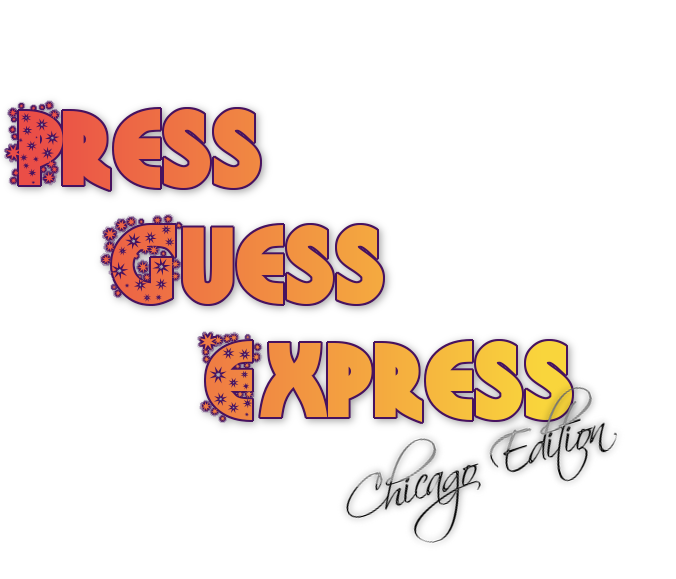
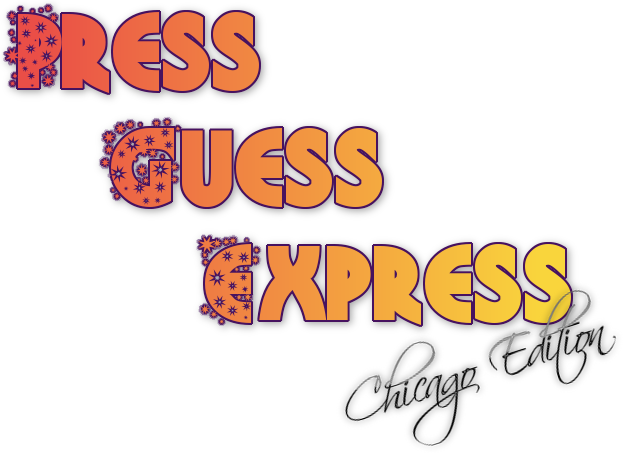
laying down the basic page. background and initial divs are almost complete

diff --git a/index.html b/index.html
@@ -1,18 +1,70 @@
 <!DOCTYPE html>
 <html lang="en">
+
 <head>
     <meta charset="UTF-8">
     <meta name="viewport" content="width=device-width, initial-scale=1.0">
     <meta http-equiv="X-UA-Compatible" content="ie=edge">
     <link rel="stylesheet" href="./assets/css/reset.css">
+    <link rel="stylesheet" href="https://maxcdn.bootstrapcdn.com/bootstrap/4.0.0/css/bootstrap.min.css">
     <link rel="stylesheet" href="./assets/css/style.css">
-    <title>Document</title>
-</head>
-<body>
-<img src="./assets/images/Press Guess Express.png" alt="1">
-<img src="./assets/images/city background.jpg" alt="2">
-<img src=".//assets/images/pink geo.jpg" alt="3">
 
-    <script src="./assets/javascript/game.js"></script>
+
+    <title>Chicago</title>
+</head>
+
+<body>
+
+    <div class="container">
+        <div class="row">
+
+            <div class="col-md-12">
+                <img id=background src="./assets/images/Press Guess Express.png" alt="1">
+            </div>
+        </div>
+        <div class="row">
+            <div class="col-md-6">
+                <div> </div>
+            </div>
+            <div class="col-md-6">
+                <h2>Press anything to start game!</h2>
+            </div>
+        </div>
+        <div class="row">
+            <div class="col-md-7">
+                <div></div>
+            </div>
+            <div class="col-md-5">
+                <h3>Current word</h3>
+            </div>
+        </div>
+        <div class="row">
+            <div class="col-md-8"></div>
+            <div class="col-md-4">
+                <div id=guesses></div>
+            </div>
+        </div>
+
+    </div>
+    <script type="text/javascript">
+
+        var wordOptions = [
+            "Streeterville",
+            "Wrigleyville",
+            "Andersonville",
+            "Edgewater",
+            "Chinatown",
+            "Englewood",
+            "Pilson",
+            "Bucktown",
+            "Bronzeville",
+            "Boystown",
+            "Bucktown",
+            "Greektown",
+            "Ravenswood",
+        ];
+
+    </script>
 </body>
+
 </html>

diff --git a/assets/css/style.css b/assets/css/style.css
@@ -1,3 +1,13 @@
 body {
-    background:  #f8eff1;
+    background: url("../images/city\ background.jpg");
+    width: 100%;
+    height: 100%;
+    margin: auto 0;
+}
+
+#background {
+    height: 250px;
+    Width: 500px;
+    margin-top: 20px;
+    margin-left: 0;
 }

diff --git a/assets/javascript/game.js b/assets/javascript/game.js
@@ -1,0 +1,15 @@
+var wordOptions = [
+  "Streeterville",
+  "Wrigleyville",
+  "Andersonville",
+  "Edgewater",
+  "Chinatown",
+  "Englewood",
+  "Pilson",
+  "Bucktown",
+  "Bronzeville",
+  "Boystown",
+  "Bucktown",
+  "Greektown",
+  "Ravenswood",
+];
